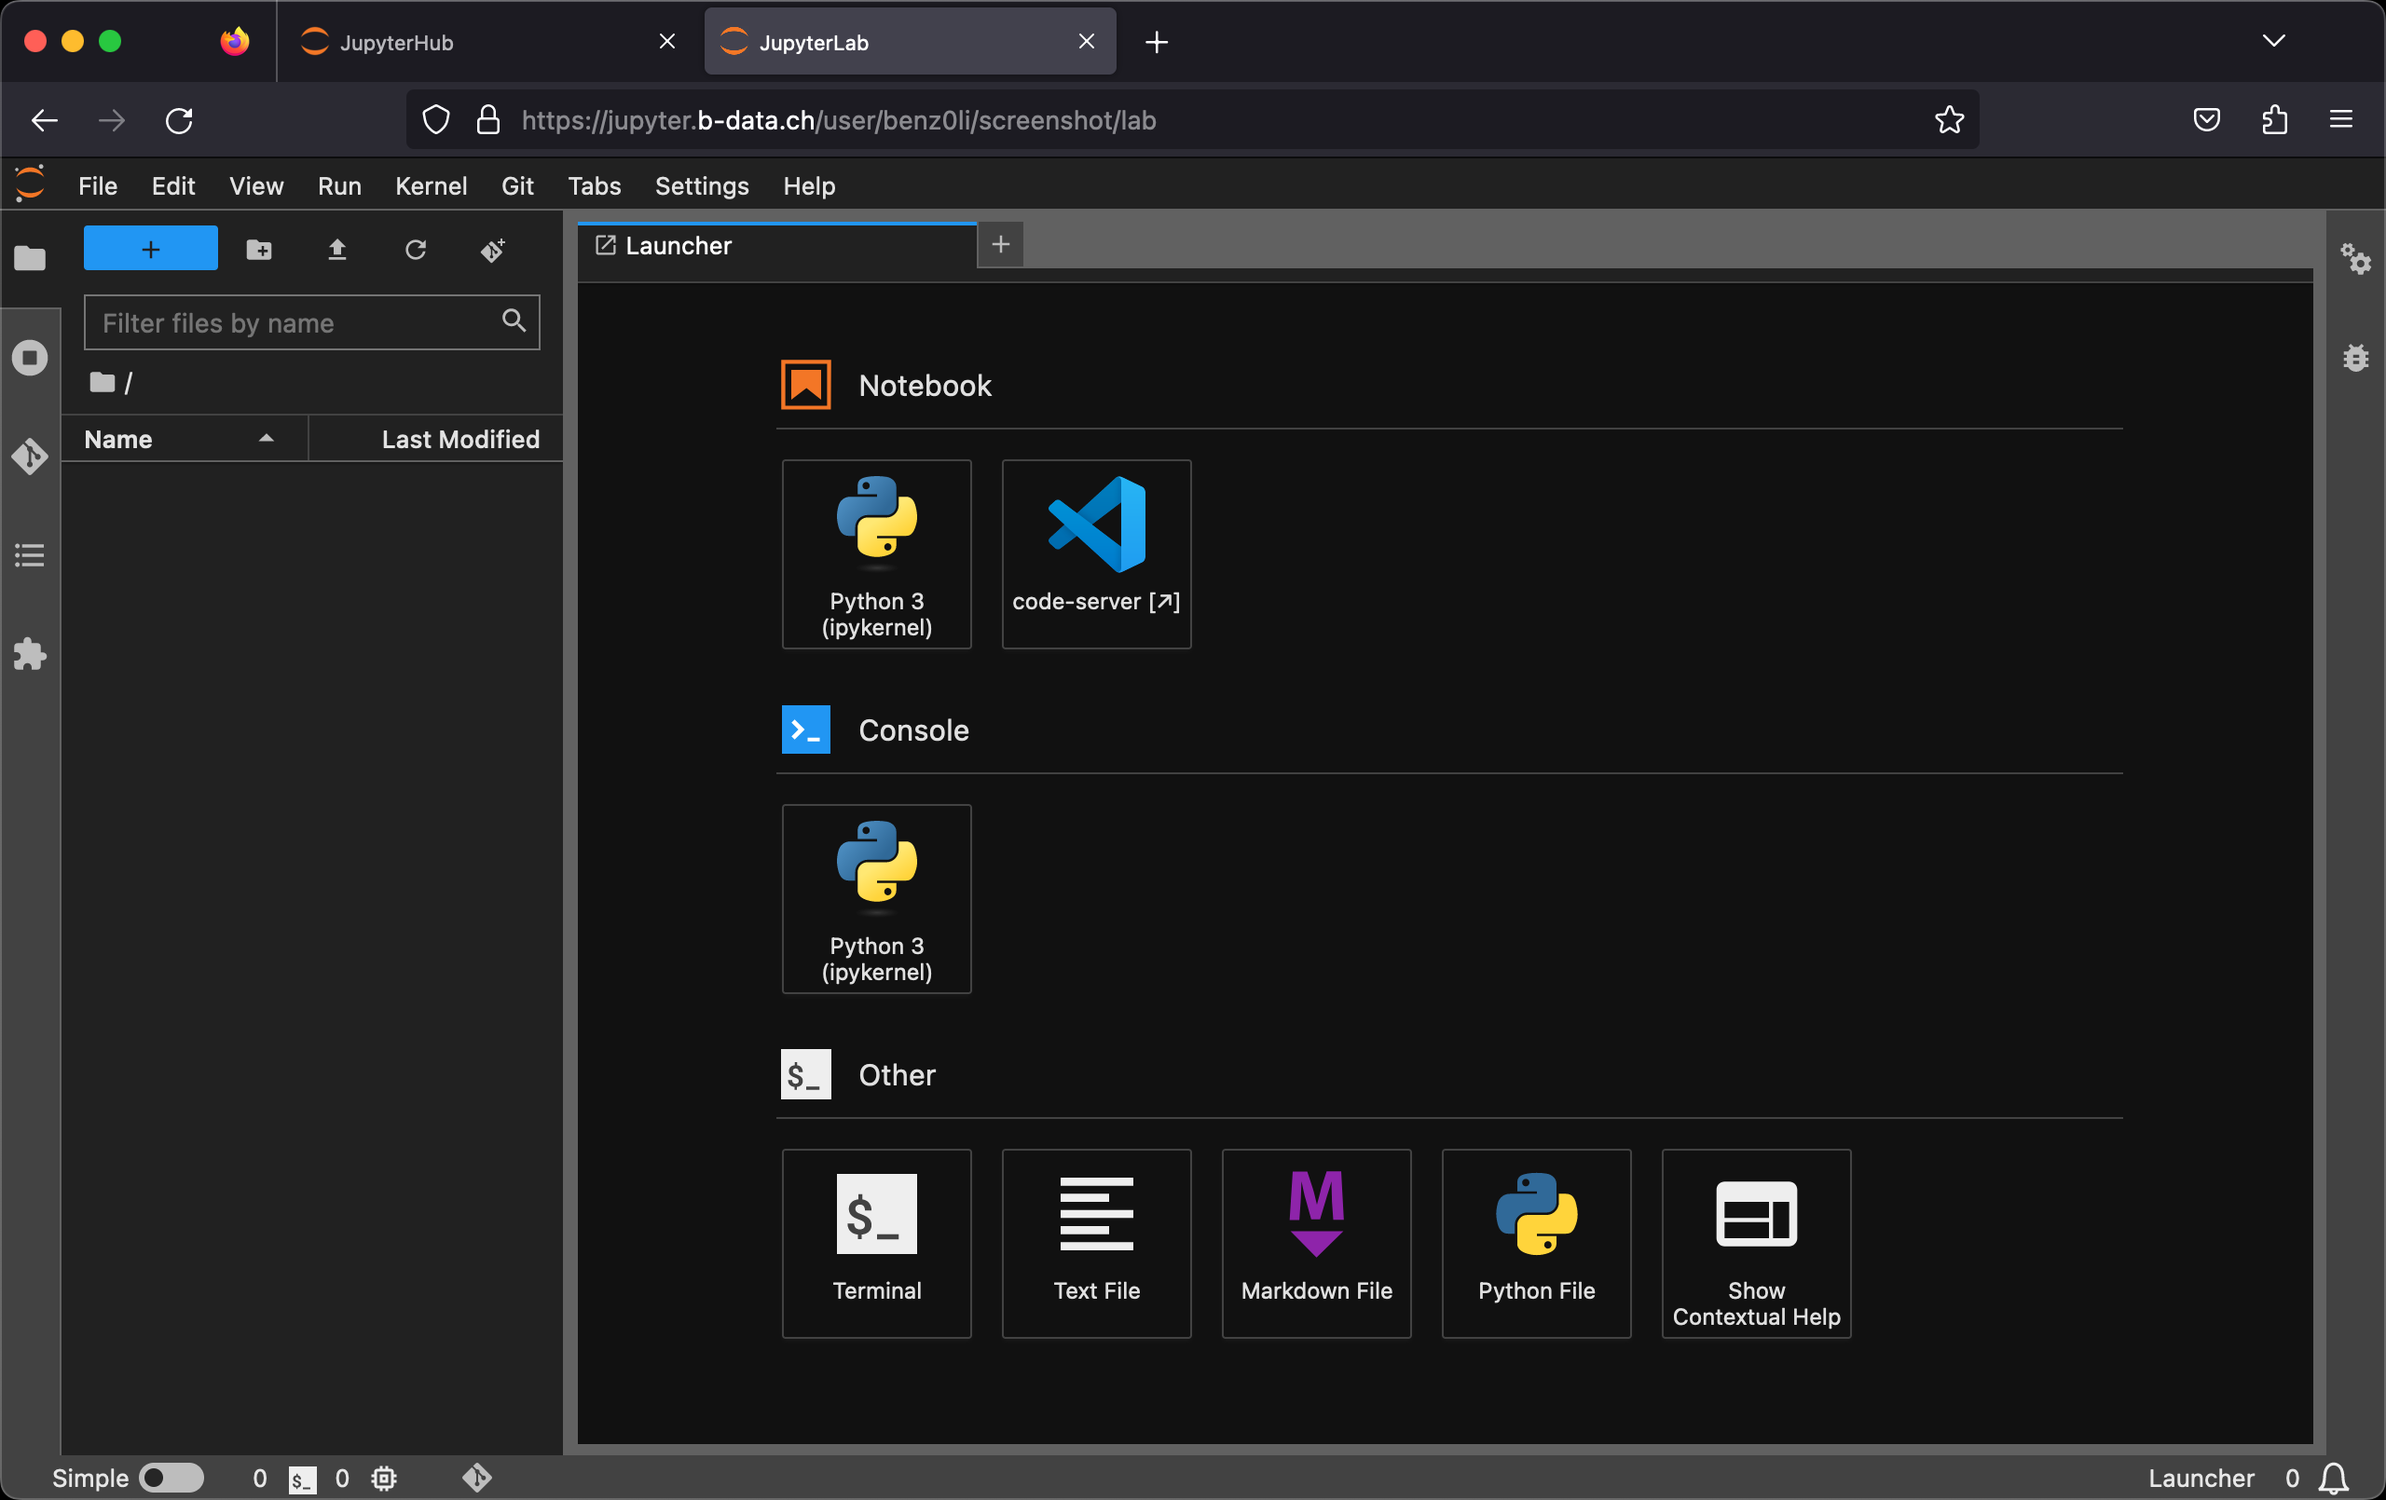
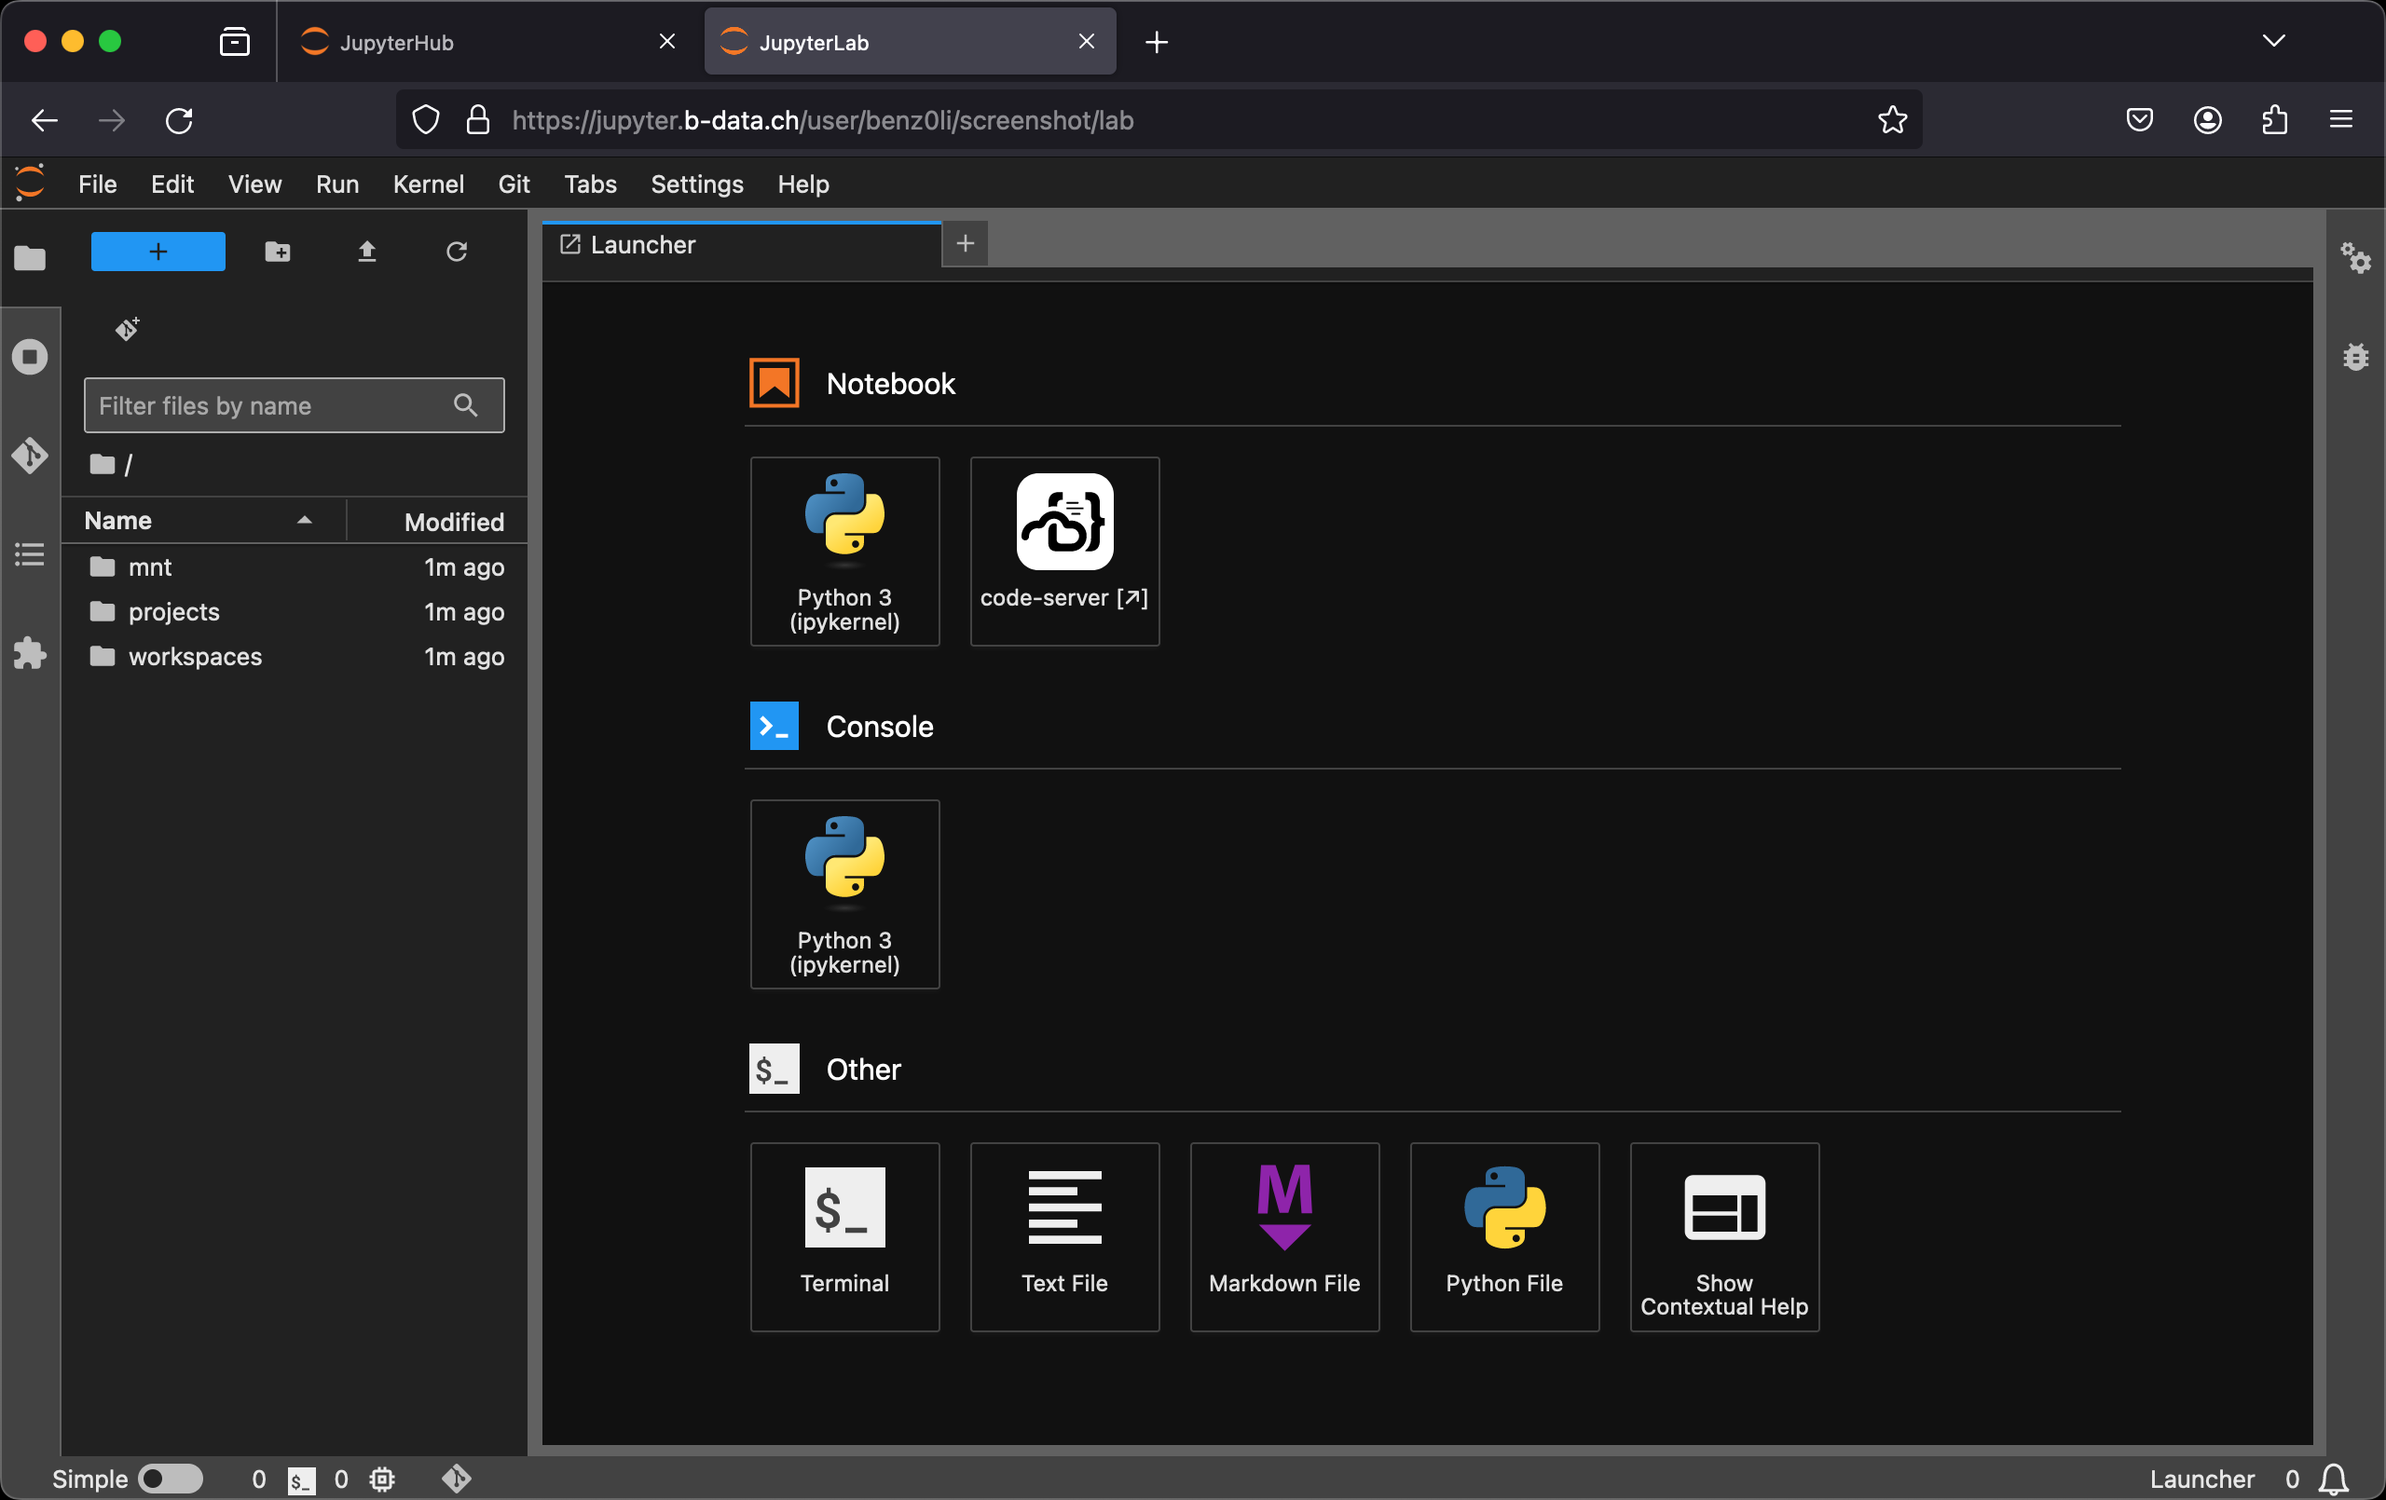
Update README.md
- Update screenshot

diff --git a/README.md b/README.md
@@ -25,8 +25,7 @@ base → scipy
 
 * **JupyterLab**: A web-based interactive development environment for Jupyter
    notebooks, code, and data. The images include
-  * **code-server**: VS Code in the browser without MS
-    branding/telemetry/licensing.
+  * **code-server**: `Code - OSS` in the browser.
   * **Git**: A distributed version-control system for tracking changes in source
     code.
   * **Git LFS**: A Git extension for versioning large files.
@@ -51,7 +50,7 @@ The following extensions are pre-installed for **code-server**:
   :information_source: devtools subtags
 * [Docker](https://open-vsx.org/extension/ms-azuretools/vscode-docker)  
   :information_source: docker subtags
-* [EditorConfig for VS Code](https://open-vsx.org/extension/EditorConfig/EditorConfig)
+* [EditorConfig](https://open-vsx.org/extension/EditorConfig/EditorConfig)
   (3.11.3+)
 * [ESLint](https://open-vsx.org/extension/dbaeumer/vscode-eslint)  
   :information_source: devtools subtags
@@ -271,7 +270,7 @@ What makes this project different:
    :information_source: CUDA-enabled images are Ubuntu-based.
 1. IDE: [code-server](https://github.com/coder/code-server) next to
    [JupyterLab](https://github.com/jupyterlab/jupyterlab)  
-   :information_source: code-server = VS Code in the browser.
+   :information_source: code-server = `Code - OSS` in the browser.
 1. Just Python – no [Conda](https://github.com/conda/conda) /
    [Mamba](https://github.com/mamba-org/mamba)
 
@@ -279,7 +278,8 @@ See [Notes](NOTES.md) for tweaks, settings, etc.
 
 ## Contributing
 
-PRs accepted.
+PRs accepted. Please submit to the
+[GitLab repository](https://gitlab.com/b-data/jupyterlab/python/docker-stack).
 
 This project follows the
 [Contributor Covenant](https://www.contributor-covenant.org)
